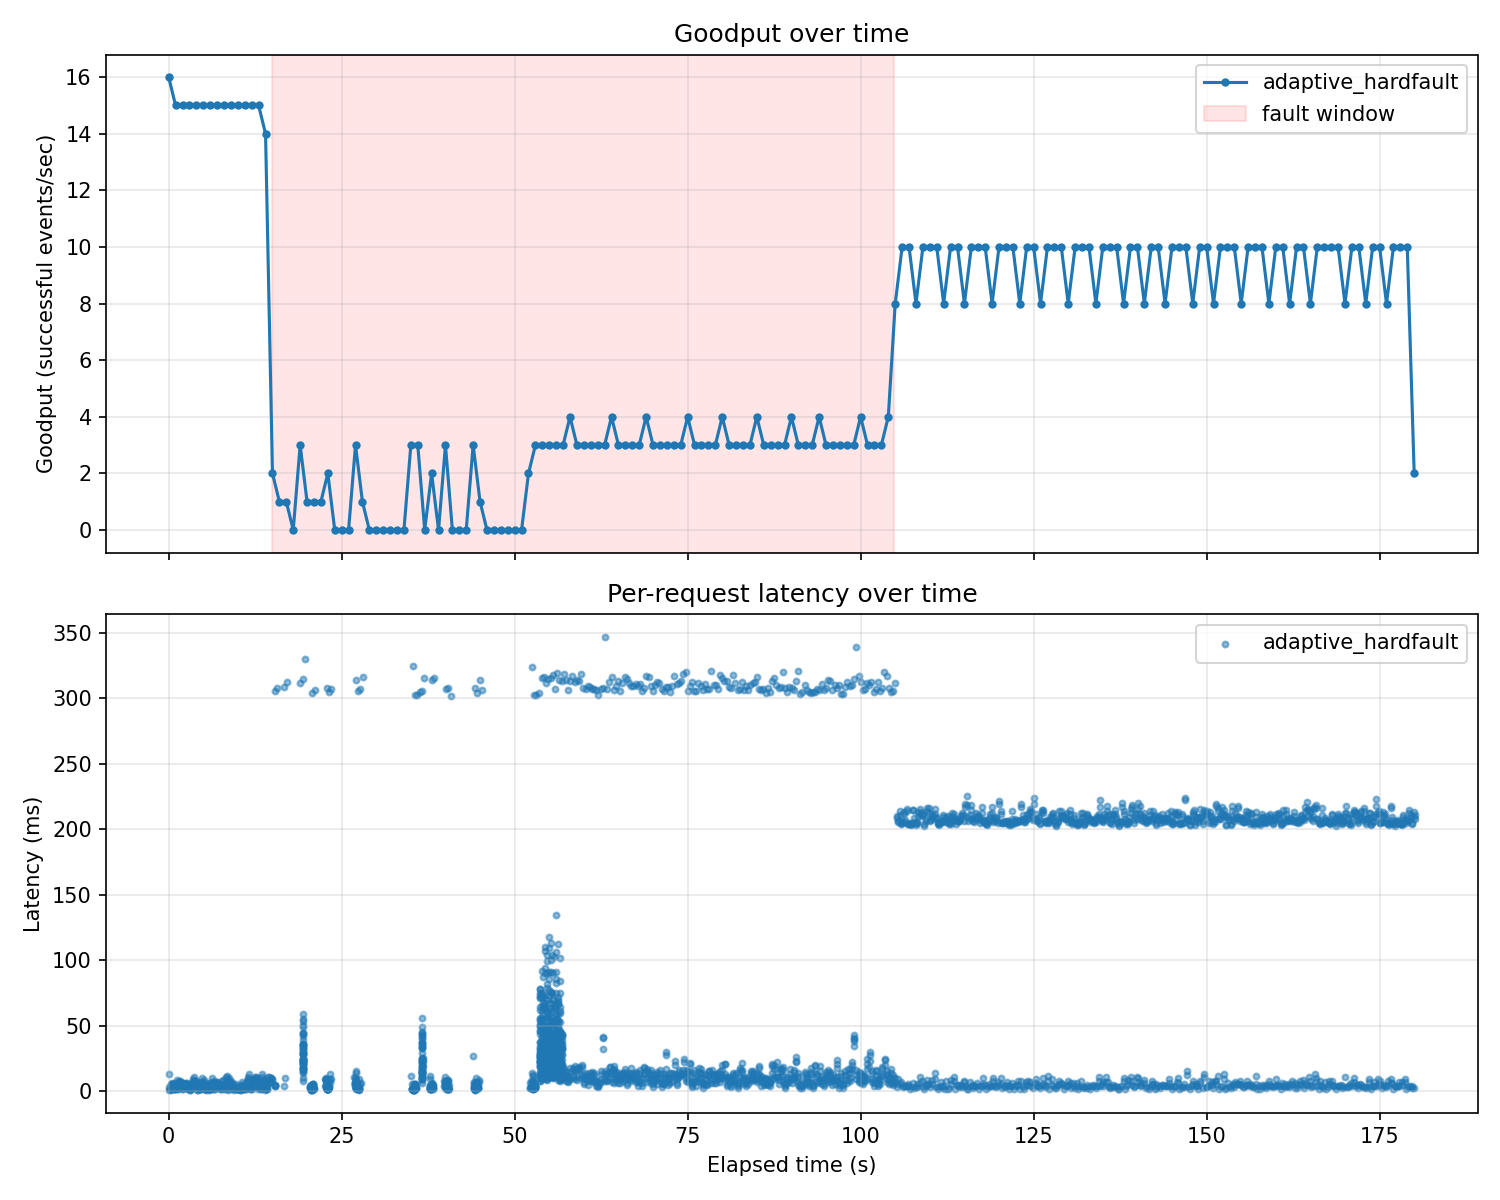
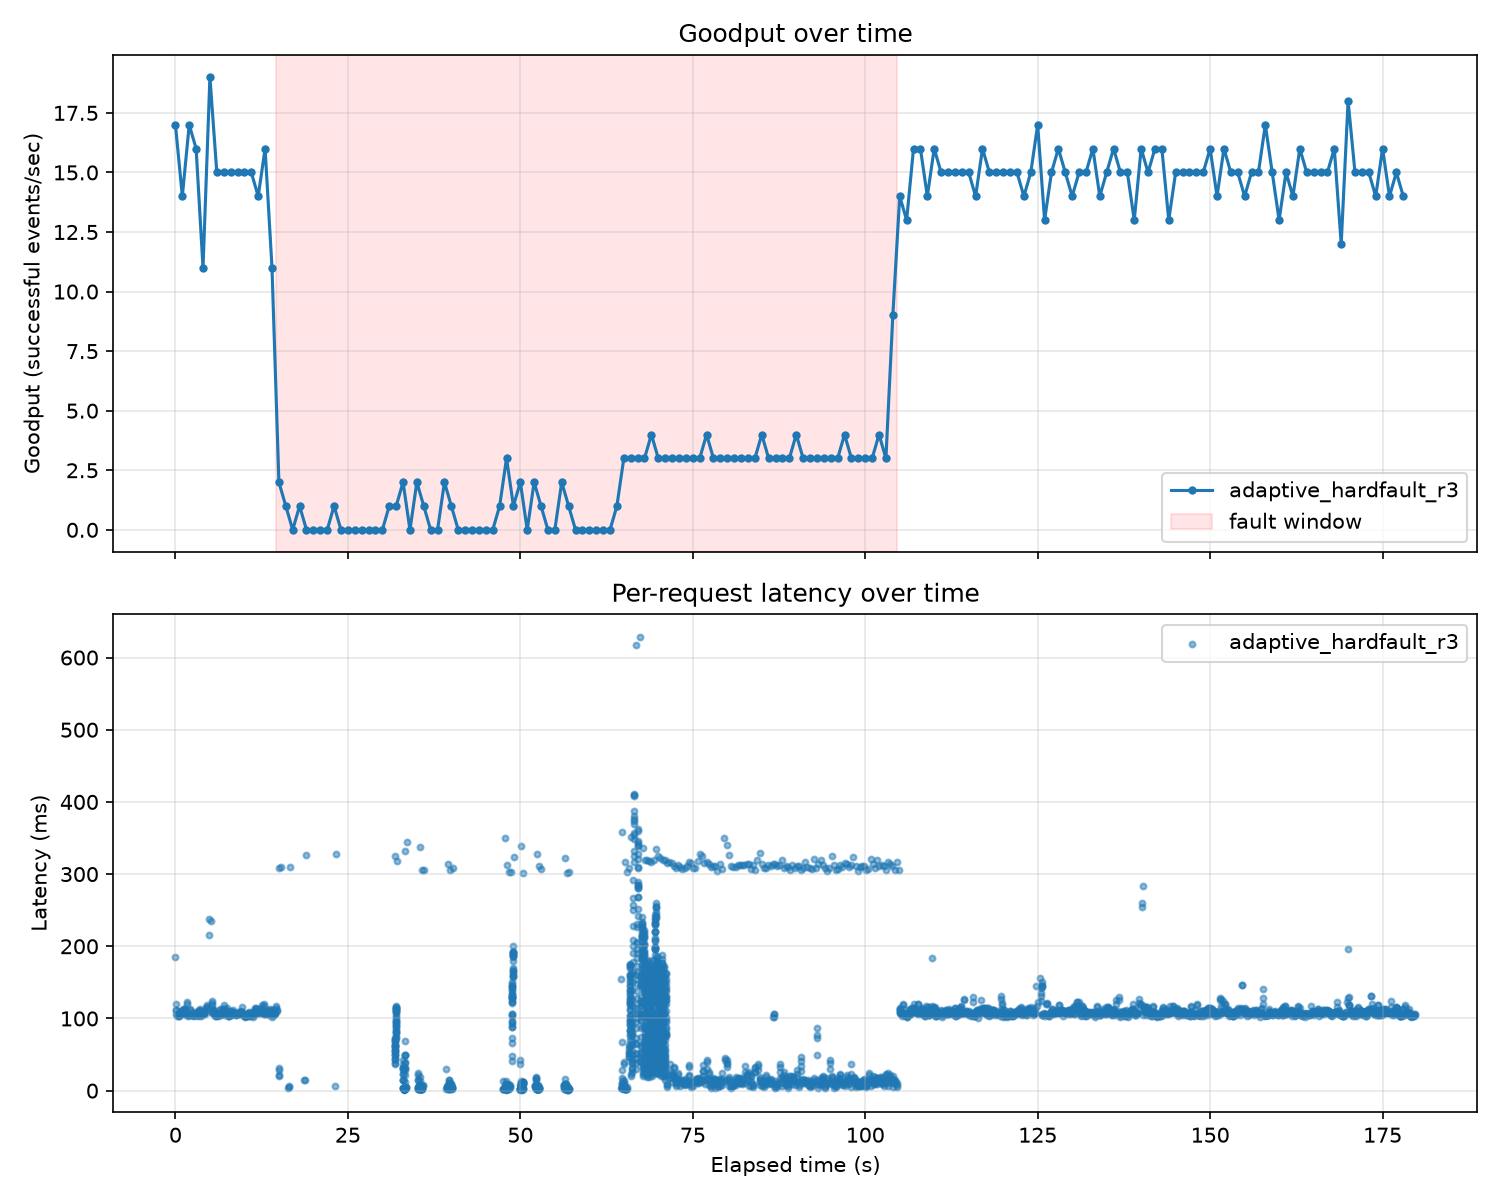
docs: update Results with 3-repeats-per-condition data and charts
Replaces the old single-run numbers (produced before the harness
restructuring, the drain-timeout fix, and the background-recovery
mechanism) with a proper 3-repeats-per-condition sweep matching
RetryGuard's own methodology, reported as mean +/- stdev.

The repeats surface something the single-run version couldn't show at
all: naive's recovery time varies 3x across otherwise-identical runs
(7.5s-22.8s) while none's is identical to the tenth-of-a-second every
time -- the instability is itself evidence for the metastability
framing, not just noise to average away. Rewrote the narrative to lead
with the actual tradeoff (naive delivers more, at the cost of slower
and far less predictable recovery, plus ~7x the retry volume) rather
than implying adaptive wins on every axis, since it doesn't -- it
delivers slightly fewer events than even none.

Removed the "single runs, variance not quantified" limitation, since
that's now resolved. Charts replaced with representative runs (closest
to each condition's mean recovery time) from the new sweep.

diff --git a/README.md b/README.md
@@ -72,31 +72,30 @@ The baseline isn't a fixed number (there's no universal "normal" latency across 
 
 ## Results
 
-All numbers below are reproducible, not pre-committed data to take on faith. Clone the repo and run each condition yourself:
+All numbers below are reproducible, not pre-committed data to take on faith. Clone the repo and run each condition yourself (`--repeats 3` matches RetryGuard's own methodology of 3 trials per condition):
 
 ```bash
 docker compose -f harness/docker-compose.yml up -d --build --wait
 for policy in none naive adaptive; do
   python3 harness/main.py ${policy}_hardfault --policy "$policy" --rate 15 --duration 180 \
-    --chaos --steady 15 --fault 90 --recovery 60 --max-concurrency 1 --latency-ms 300
+    --chaos --steady 15 --fault 90 --recovery 60 --max-concurrency 1 --latency-ms 300 --repeats 3
 done
 ```
 
-Same offered load and the same 90-second fault across all three conditions; only the retry policy differs. Recovery isn't separately configured — once the fault clears, the receiver just reverts to its own fixed background operating point (a real, finite capacity representative of normal operation, not an idealized instant reset):
+Same offered load and the same 90-second fault across all three conditions; only the retry policy differs. Recovery isn't separately configured — once the fault clears, the receiver just reverts to its own fixed background operating point (a real, finite capacity representative of normal operation, not an idealized instant reset). Chart below shows one representative run per condition, closest to that condition's mean recovery time:
 
 ![Combined comparison chart](results/charts/combined_hardfault.png)
 
-| Condition | Delivered | Dead-lettered | Retries fired | Still unresolved (of 2700) |
+| Condition | Delivered | Dead-lettered | Retries fired | Recovery time |
 |---|---|---|---|---|
-| `none` | 1224 (45%) | 1476 (55%) | 0 | 0 |
-| `naive` | 815 (30%) | 423 (16%) | 3231 | **1420** |
-| `adaptive` | 1134 (42%) | 1566 (58%) | 366 | 0 |
+| `none` | 1635 (60.6%) | 1065 (39.4%) | 0 ± 0 | 0.3s ± 0.0s |
+| `naive` | 2545 (94.3%) | 155 (5.7%) | 2700 ± 127 | **16.6s ± 8.0s** |
+| `adaptive` | 1516 (56.1%) | 1184 (43.9%) | 394 ± 144 | 2.6s ± 2.5s |
 
-Naive is the only policy that doesn't even finish processing the offered load. Its retry storm piles messages up faster than the throttled receiver can drain them, leaving over half of everything sent stuck mid-retry when the run ends. Both `none` and `adaptive` fully resolve every event, and adaptive does it while still retrying productively wherever it's actually safe to.
+Mean ± standard deviation across 3 repeats per condition. `naive` delivers the most events (94.3%) — it just pays for that with a recovery time that's both far slower on average and far less predictable than either alternative: its recovery time ranged from 7.5s to 22.8s across otherwise-identical runs, a 3x spread, while `none`'s was identical to the tenth-of-a-second across all 3 runs. That instability is itself part of the finding, not just noise — `naive`'s recovery depends on the chaotic dynamics of its own retry storm, not on anything deterministic. `adaptive` also varies (0.3s–5.3s), but far more tightly, and its *worst* observed case (5.3s) still beats `naive`'s *best* observed case (7.5s). `adaptive` isn't a strict win on every axis — it delivers slightly fewer events than even `none` (56.1% vs 60.6%) — but it does so at roughly 1/7th `naive`'s retry volume (394 vs 2700) while recovering an order of magnitude faster, which is the actual productive-vs-counterproductive-retry tradeoff RetryGuard's own paper argues for, not raw delivery completeness.
 
 ### Limitations
 
-- Results so far are single runs per condition, so run-to-run variance isn't quantified yet.
 - Only one receiver endpoint is exercised. Adaptive tracks state per endpoint, but its behavior across many endpoints of differing health hasn't been tested.
 - The fault tested here is a capacity ceiling combined with injected latency. Other shapes, like high random rejection rates or partial outages, aren't covered by the benchmark yet.
 
